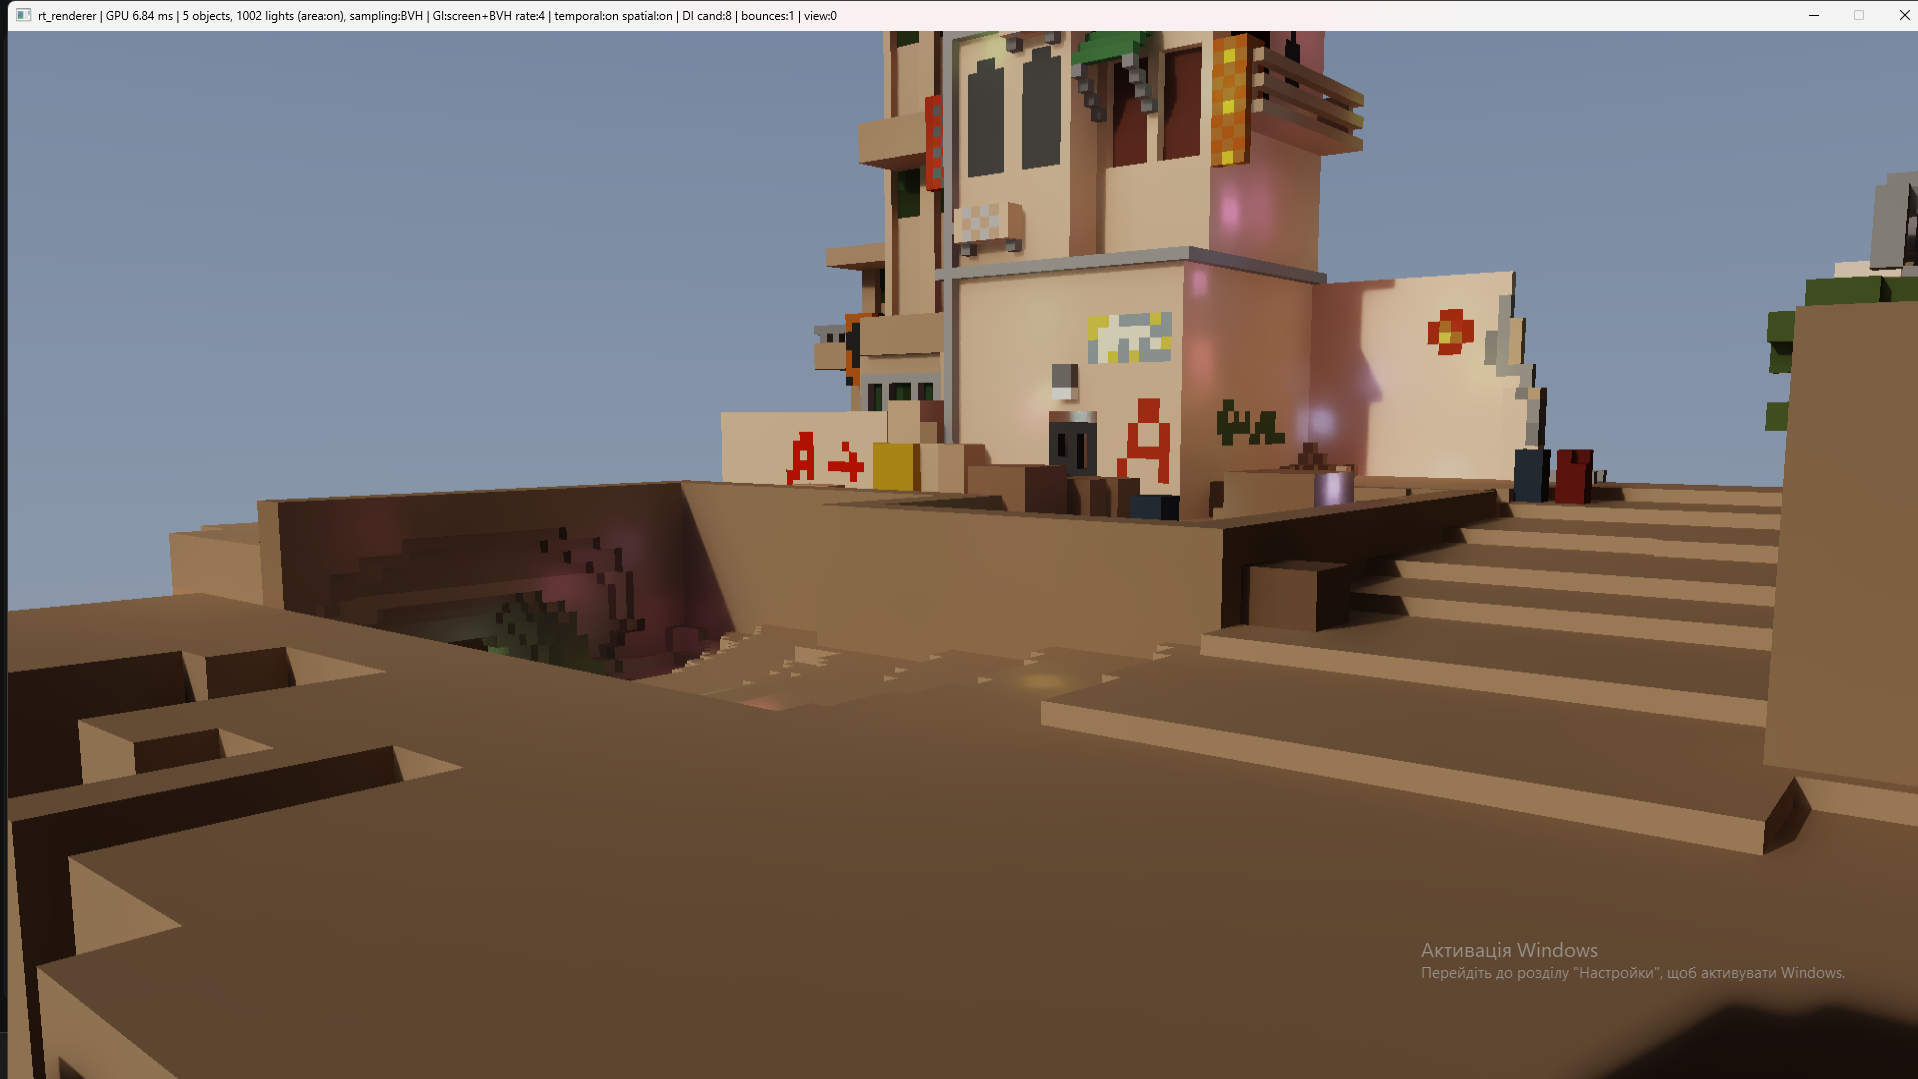
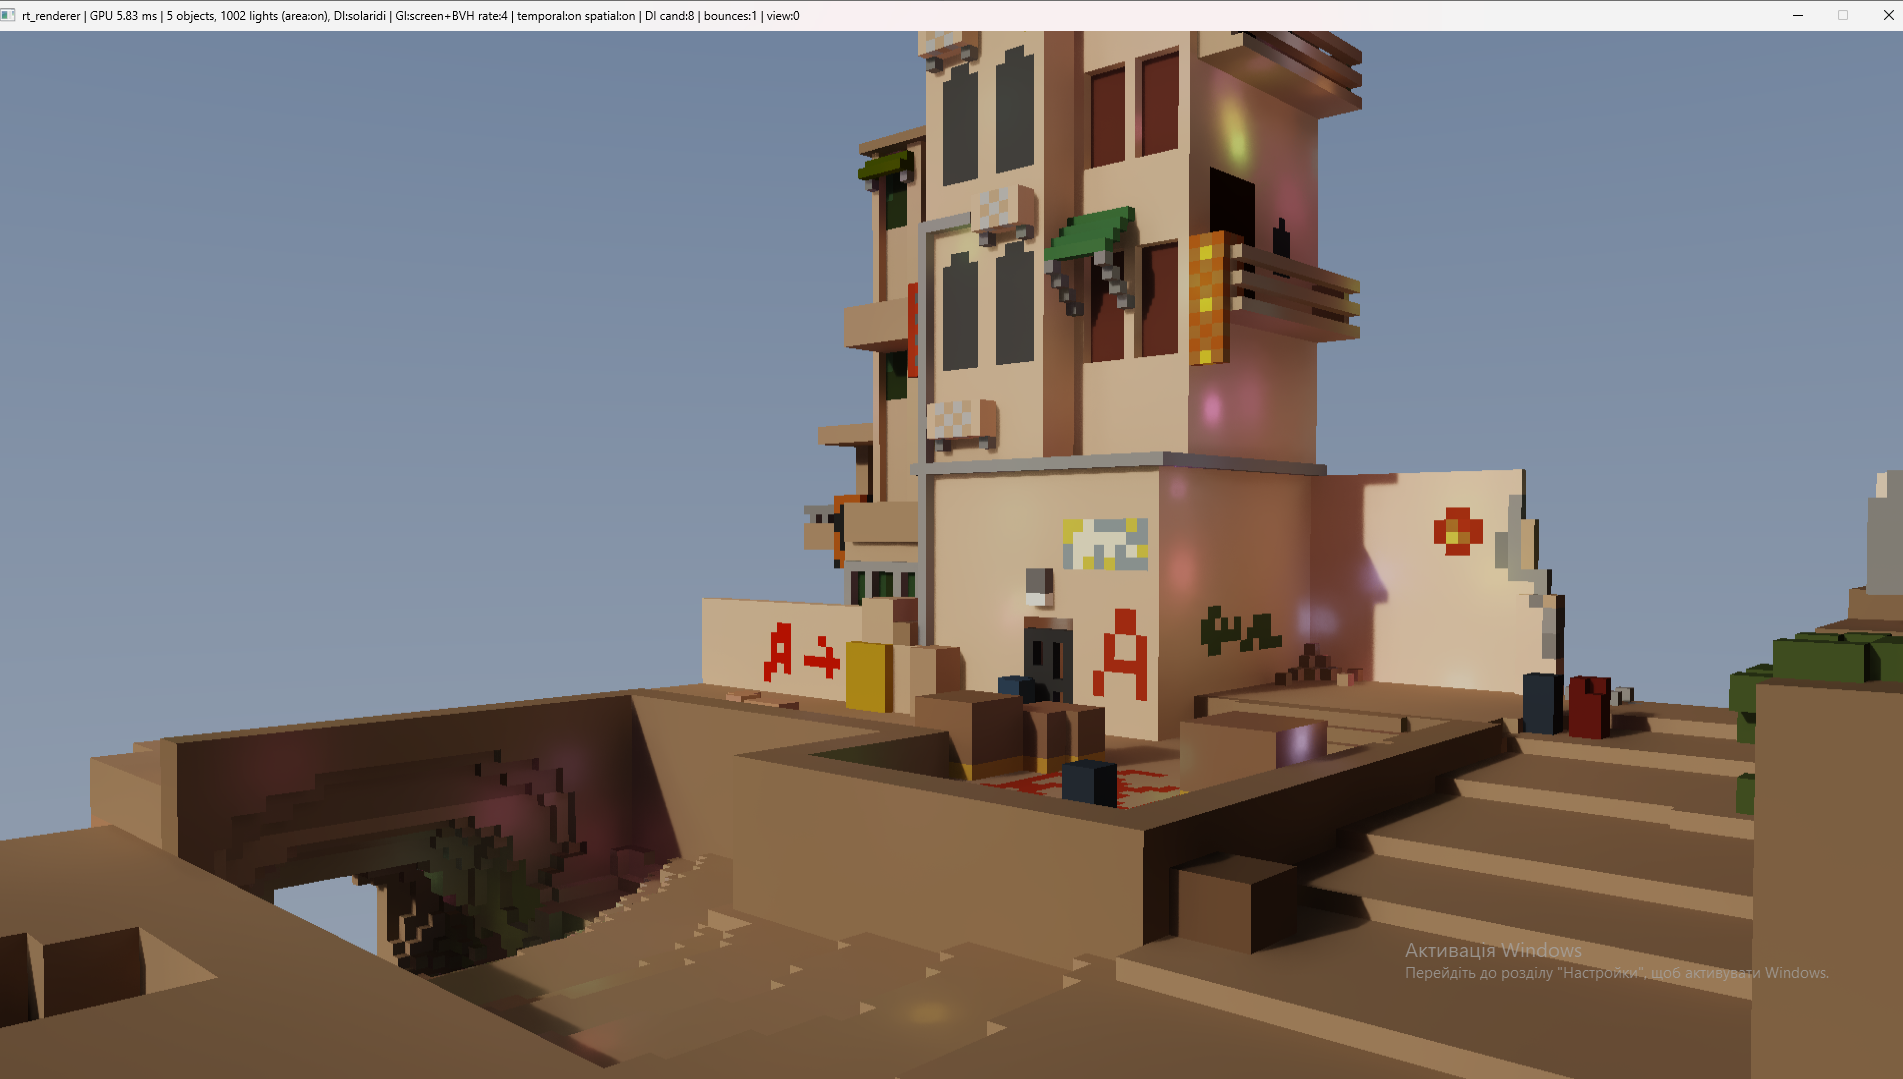
updated restir di system, and repo

diff --git a/main.cpp b/main.cpp
@@ -848,7 +848,7 @@ int activeDlssMode = 0;
                    U32 = VK_FORMAT_R32G32B32A32_UINT, R8 = VK_FORMAT_R8G8B8A8_UNORM;
     Image gND[2] = {createImage(renderW, renderH, F32), createImage(renderW, renderH, F32)};
     Image gAlbedo = createImage(renderW, renderH, F16);
-    Image resInit = createImage(renderW, renderH, U32);
+    Image resInit = createImage(renderW, renderH, U32, VK_IMAGE_USAGE_TRANSFER_SRC_BIT);
     Image resT[2] = {createImage(renderW, renderH, U32), createImage(renderW, renderH, U32)};
     Image resSpatial = createImage(renderW, renderH, U32);
     Image gi[2] = {createImage(renderW, renderH, F16), createImage(renderW, renderH, F16)};
@@ -1044,7 +1044,7 @@ int activeDlssMode = 0;
         std::fprintf(stderr, "NRD GI initialization failed (%u)\n", static_cast<uint32_t>(nrdResult));
         return 1;
     }
-    nrd::RelaxSettings nrdDISettings{};
+    nrd::RelaxSettings nrdDISettings{};  
     nrdDISettings.diffuseMaxAccumulatedFrameNum = 20;
     nrdDISettings.diffuseMaxFastAccumulatedFrameNum = 6;
     nrd::ReblurSettings nrdGISettings{};
@@ -1098,7 +1098,8 @@ int activeDlssMode = 0;
     cam.pitch = std::clamp(world.camPitch * kPi / 180.0f, -1.55f, 1.55f);
     lastCam = cam;
     bool temporal = true, spatial = true;
-    uint32_t lightMode = 2;  
+    constexpr uint32_t SOLARI_DI_MODE = 3u;
+    uint32_t lightMode = 3;  
     float exposure = 1.0f;
     uint32_t dbg = 0, giBounces = 1, candIdx = 2;  
     const uint32_t candTable[6] = {1, 4, 8, 12, 16, 32};
@@ -1264,7 +1265,10 @@ std::printf("BVH: %zu nodes, root power=%.4f, bmin=(%.2f,%.2f,%.2f), bmax=(%.2f,
         if (edge[GLFW_KEY_Y]) spatial = !spatial;
         if (edge[GLFW_KEY_G]) giBounces = (giBounces + 1) % 4;
         if (edge[GLFW_KEY_C]) candIdx = (candIdx + 1) % 6;
-        if (edge[GLFW_KEY_M]) lightMode = (lightMode + 1) % 3;  
+        if (edge[GLFW_KEY_M]) {
+            lightMode = (lightMode + 1) % (SOLARI_DI_MODE + 1);
+            frame = 0;
+        }
         if (edge[GLFW_KEY_N]) world.giMode = (world.giMode + 1) % 3;                  
         if (edge[GLFW_KEY_H]) {
             if (world.giMode == 2) world.giOffscreenRate = world.giOffscreenRate == 1 ? 8 : 1;
@@ -1337,7 +1341,8 @@ std::printf("BVH: %zu nodes, root power=%.4f, bmin=(%.2f,%.2f,%.2f), bmax=(%.2f,
         u.misc0[0] = renderW; u.misc0[1] = renderH; u.misc0[2] = frame; u.misc0[3] = (temporal ? 1u : 0u) | (spatial ? 2u : 0u);
         u.misc1[0] = numLights; u.misc1[1] = dbg; u.misc1[2] = giBounces; u.misc1[3] = candTable[candIdx];
         u.params[0] = exposure; u.params[1] = 32.0f; u.params[2] = 12.0f; u.params[3] = 10.0f;   
-        u.misc2[0] = tilesX; u.misc2[1] = lightMode; u.misc2[2] = nDir;
+        u.misc2[0] = tilesX; u.misc2[1] = lightMode == SOLARI_DI_MODE ? 2u : lightMode; u.misc2[2] = nDir;
+        u.misc2[3] = lightMode == SOLARI_DI_MODE ? 1u : 0u;
         u.params2[0] = float(1.0 / totalPower); u.params2[1] = tileCutoff; u.params2[2] = 16.0f;
         u.params2[3] = 2.0f * tanHalf / float(renderH);    
         for (int a = 0; a < 3; ++a) { u.gridMin[a] = gridMinV[a]; u.gridInvCell[a] = gridInvV[a]; u.gridDim[a] = GRID; }
@@ -1459,6 +1464,57 @@ std::printf("BVH: %zu nodes, root power=%.4f, bmin=(%.2f,%.2f,%.2f), bmax=(%.2f,
             else if (i == 6) { if (world.giMode > 0 && cacheBudget > 0) vkCmdDispatch(cmd, (cacheBudget + 63) / 64, 1, 1); }   
             else vkCmdDispatch(cmd, gx, gy, 1);
             vkCmdPipelineBarrier(cmd, VK_PIPELINE_STAGE_COMPUTE_SHADER_BIT, VK_PIPELINE_STAGE_COMPUTE_SHADER_BIT, 0, 1, &mb, 0, nullptr, 0, nullptr);
+            if (i == 5 && lightMode == SOLARI_DI_MODE) {
+                VkImage images[] = {resInit.img, resT[frame & 1].img};
+                VkAccessFlags copySrcAccess[] = {
+                    VK_ACCESS_SHADER_READ_BIT | VK_ACCESS_SHADER_WRITE_BIT,
+                    VK_ACCESS_SHADER_READ_BIT | VK_ACCESS_SHADER_WRITE_BIT
+                };
+                VkAccessFlags copyDstAccess[] = {
+                    VK_ACCESS_TRANSFER_READ_BIT,
+                    VK_ACCESS_TRANSFER_WRITE_BIT
+                };
+                VkImageMemoryBarrier toCopy[2]{};
+                for (uint32_t j = 0; j < 2; ++j) {
+                    toCopy[j].sType = VK_STRUCTURE_TYPE_IMAGE_MEMORY_BARRIER;
+                    toCopy[j].srcAccessMask = copySrcAccess[j];
+                    toCopy[j].dstAccessMask = copyDstAccess[j];
+                    toCopy[j].oldLayout = VK_IMAGE_LAYOUT_GENERAL;
+                    toCopy[j].newLayout = VK_IMAGE_LAYOUT_GENERAL;
+                    toCopy[j].srcQueueFamilyIndex = toCopy[j].dstQueueFamilyIndex = VK_QUEUE_FAMILY_IGNORED;
+                    toCopy[j].image = images[j];
+                    toCopy[j].subresourceRange = {VK_IMAGE_ASPECT_COLOR_BIT, 0, 1, 0, 1};
+                }
+                vkCmdPipelineBarrier(cmd, VK_PIPELINE_STAGE_COMPUTE_SHADER_BIT,
+                                     VK_PIPELINE_STAGE_TRANSFER_BIT, 0, 0, nullptr, 0, nullptr,
+                                     2, toCopy);
+
+                VkImageCopy historyCopy{};
+                historyCopy.srcSubresource = {VK_IMAGE_ASPECT_COLOR_BIT, 0, 0, 1};
+                historyCopy.dstSubresource = {VK_IMAGE_ASPECT_COLOR_BIT, 0, 0, 1};
+                historyCopy.extent = {renderW, renderH, 1};
+                vkCmdCopyImage(cmd, resInit.img, VK_IMAGE_LAYOUT_GENERAL,
+                               resT[frame & 1].img, VK_IMAGE_LAYOUT_GENERAL, 1, &historyCopy);
+
+                VkAccessFlags afterCopySrcAccess[] = {
+                    VK_ACCESS_TRANSFER_READ_BIT,
+                    VK_ACCESS_TRANSFER_WRITE_BIT
+                };
+                VkImageMemoryBarrier afterCopy[2]{};
+                for (uint32_t j = 0; j < 2; ++j) {
+                    afterCopy[j].sType = VK_STRUCTURE_TYPE_IMAGE_MEMORY_BARRIER;
+                    afterCopy[j].srcAccessMask = afterCopySrcAccess[j];
+                    afterCopy[j].dstAccessMask = VK_ACCESS_SHADER_READ_BIT | VK_ACCESS_SHADER_WRITE_BIT;
+                    afterCopy[j].oldLayout = VK_IMAGE_LAYOUT_GENERAL;
+                    afterCopy[j].newLayout = VK_IMAGE_LAYOUT_GENERAL;
+                    afterCopy[j].srcQueueFamilyIndex = afterCopy[j].dstQueueFamilyIndex = VK_QUEUE_FAMILY_IGNORED;
+                    afterCopy[j].image = images[j];
+                    afterCopy[j].subresourceRange = {VK_IMAGE_ASPECT_COLOR_BIT, 0, 1, 0, 1};
+                }
+                vkCmdPipelineBarrier(cmd, VK_PIPELINE_STAGE_TRANSFER_BIT,
+                                     VK_PIPELINE_STAGE_COMPUTE_SHADER_BIT, 0, 0, nullptr, 0, nullptr,
+                                     2, afterCopy);
+            }
         if (i == 0) runCustom(0);          
         if (i == 8) vkCmdWriteTimestamp(cmd, VK_PIPELINE_STAGE_BOTTOM_OF_PIPE_BIT, qpool, 9);
         else if (i == 9) vkCmdWriteTimestamp(cmd, VK_PIPELINE_STAGE_BOTTOM_OF_PIPE_BIT, qpool, 11);
@@ -1619,9 +1675,9 @@ std::printf("BVH: %zu nodes, root power=%.4f, bmin=(%.2f,%.2f,%.2f), bmax=(%.2f,
             for (double a : passAcc) total += a;
             char title[300];
             std::snprintf(title, sizeof(title),
-                          "rt_renderer | GPU %.2f ms | %zu objects, %u lights (area:%s), sampling:%s | GI:%s rate:%d | temporal:%s spatial:%s | DI cand:%u | bounces:%u | view:%u",
+                          "rt_renderer | GPU %.2f ms | %zu objects, %u lights (area:%s), DI:%s | GI:%s rate:%d | temporal:%s spatial:%s | DI cand:%u | bounces:%u | view:%u",
                           total / accFrames, world.objects.size(), numLights, world.areaLights ? "on" : "off",
-            (lightMode == 0 ? "global" : lightMode == 1 ? "tile/grid" : "BVH"),
+            (lightMode == 0 ? "global" : lightMode == 1 ? "tile/grid" : lightMode == 2 ? "BVH" : "solaridi"),
                           world.giMode == 0 ? "path" : world.giMode == 1 ? "surface cache" : "screen+BVH",
                           world.giMode == 2 ? (int)world.giOffscreenRate : world.giRate,
                           temporal ? "on" : "off", spatial ? "on" : "off", candTable[candIdx], giBounces, dbg);

diff --git a/world.hpp b/world.hpp
@@ -66,7 +66,9 @@ struct GpuLight {
     float dir[3]; uint32_t type;
     float color[3]; float range;
     float cosOuter, cosInner; uint32_t tri; float power;
+    uint32_t strictAttenuation, pad0, pad1, pad2;
 };
+static_assert(sizeof(GpuLight) == 80, "GpuLight must match the std430 Light struct in common.glsl");
 inline void setF3(float* d, V3 v) { d[0] = v.x; d[1] = v.y; d[2] = v.z; }
 
 
@@ -99,6 +101,7 @@ struct LightDef {
     std::string name; uint32_t type = LIGHT_POINT;
     V3 pos{0, 0, 0}, dir{0, -1, 0}, color{1, 1, 1};
     float radius = 0.03f, range = 5.0f, inner = 20.0f, outer = 35.0f;   
+    bool strictAttenuation = false;
 };
 struct TexUpload { uint32_t layer; std::vector<uint8_t> data; };   
 
@@ -670,6 +673,7 @@ inline void buildScene(const World& w, Scene& s) {
         setF3(L.pos, d.pos); L.radius = std::max(d.radius, 0.001f); setF3(L.dir, normalize(d.dir));
         L.type = d.type; setF3(L.color, d.color); L.range = std::max(d.range, 0.01f);
         L.power = lum(d.color);
+        L.strictAttenuation = d.strictAttenuation ? 1u : 0u;
         if (d.type == LIGHT_SPOT) { L.cosOuter = std::cos(d.outer * kPi / 180); L.cosInner = std::cos(d.inner * kPi / 180); }
         if (d.type == LIGHT_DIR)  { L.cosOuter = std::cos(d.outer * kPi / 180); L.range = 1e9f; }
         if (L.power > 0) s.lights.push_back(L);
@@ -1040,6 +1044,10 @@ private:
                 else if (p == "color" && t.size() >= 6) l->color = vec3(t, 3, ln);
                 else if (p == "range") l->range = num(t[3], ln);
                 else if (p == "radius") l->radius = num(t[3], ln);
+                else if (p == "strict" && l->type == LIGHT_POINT) {
+                    if (t[3] != "on" && t[3] != "off") { err(ln, "light strict must be on or off"); return; }
+                    l->strictAttenuation = isOn(t[3]);
+                }
                 else err(ln, "bad property '" + p + "' for a light");
                 w.dirty = true;
             } else err(ln, "no object or light named '" + t[1] + "'");
@@ -1055,9 +1063,13 @@ private:
             l.name = t[2];
             if (!l.name.empty() && l.name.back() == '#') l.name = l.name.substr(0, l.name.size() - 1) + std::to_string(++w.spawnCounter);
             if (t[1] == "point") {
-                if (!need(t, 10, ln, "light point <name> x y z r g b range [radius]")) return;
+                if (!need(t, 10, ln, "light point <name> x y z r g b range [radius] [strict]")) return;
                 l.type = LIGHT_POINT; l.pos = vec3(t, 3, ln); l.color = vec3(t, 6, ln); l.range = num(t[9], ln);
-                if (t.size() > 10) l.radius = num(t[10], ln);
+                for (size_t i = 10; i < t.size(); ++i) {
+                    if (t[i] == "strict") l.strictAttenuation = true;
+                    else if (i == 10) l.radius = num(t[i], ln);
+                    else { err(ln, "point light option must be a radius or strict"); return; }
+                }
             } else if (t[1] == "spot") {
                 if (!need(t, 14, ln, "light spot <name> x y z dx dy dz r g b range outerDeg innerDeg [radius]")) return;
                 l.type = LIGHT_SPOT; l.pos = vec3(t, 3, ln); l.dir = vec3(t, 6, ln); l.color = vec3(t, 9, ln);

diff --git a/README.md b/README.md
@@ -1,5 +1,3 @@
-
-
 ![Logo](<repo/Frame 6.png>)
 # Vektor Engine (early beta)
 
@@ -10,7 +8,7 @@ Open Source game engine inspired by UE rendering techniques like ReSTIR DI from 
 
 ## Features
 
-- Realtime Ray Tracing with 1000+ lights via ReSTIR DI, RTGI
+- Realtime Ray Tracing with 1000+ lights via Solar DI (Optimized ReSTIR), RTGI
 - Easy scripting language .SCR
 - Optimized Editor
 - Vulkan Crossplatform
@@ -18,10 +16,16 @@ Open Source game engine inspired by UE rendering techniques like ReSTIR DI from 
 
 ## Demo
 
-In shown example we loaded de_dust2 voxel scene, due to ReSTIR DI and optimized RTGI we can place magnitudes of lights. For example in our scene we placed 1000 lights (3 additional lights is directional, sky, and area emission shape in sky) we getting extremely good results in our case, remember all lights are fully dynamic with ray traced shadows and dynamic bounces.
+In shown example we loaded de_dust2 voxel scene, due to Solar DI and optimized RTGI we can place magnitudes of lights. For example in our scene we placed 1000 lights (3 additional lights is directional, sky, and area emission shape in sky) we getting extremely good results in our case, remember all lights are fully dynamic with ray traced shadows and dynamic bounces.
 
-![Logo](<repo/Знімок екрана 2026-11-16 181037.png>)
+![Demo](<repo/Знімок екрана 2026-11-16 181037.png>)
 
+
+## Technical Breakdown
+
+Engine used special technologies to get realestic lighting, and good perfomance. In this image you can find a simple breakdown:
+
+![Logo](<repo/Frame 7.png>)
 
 ## Building
 
